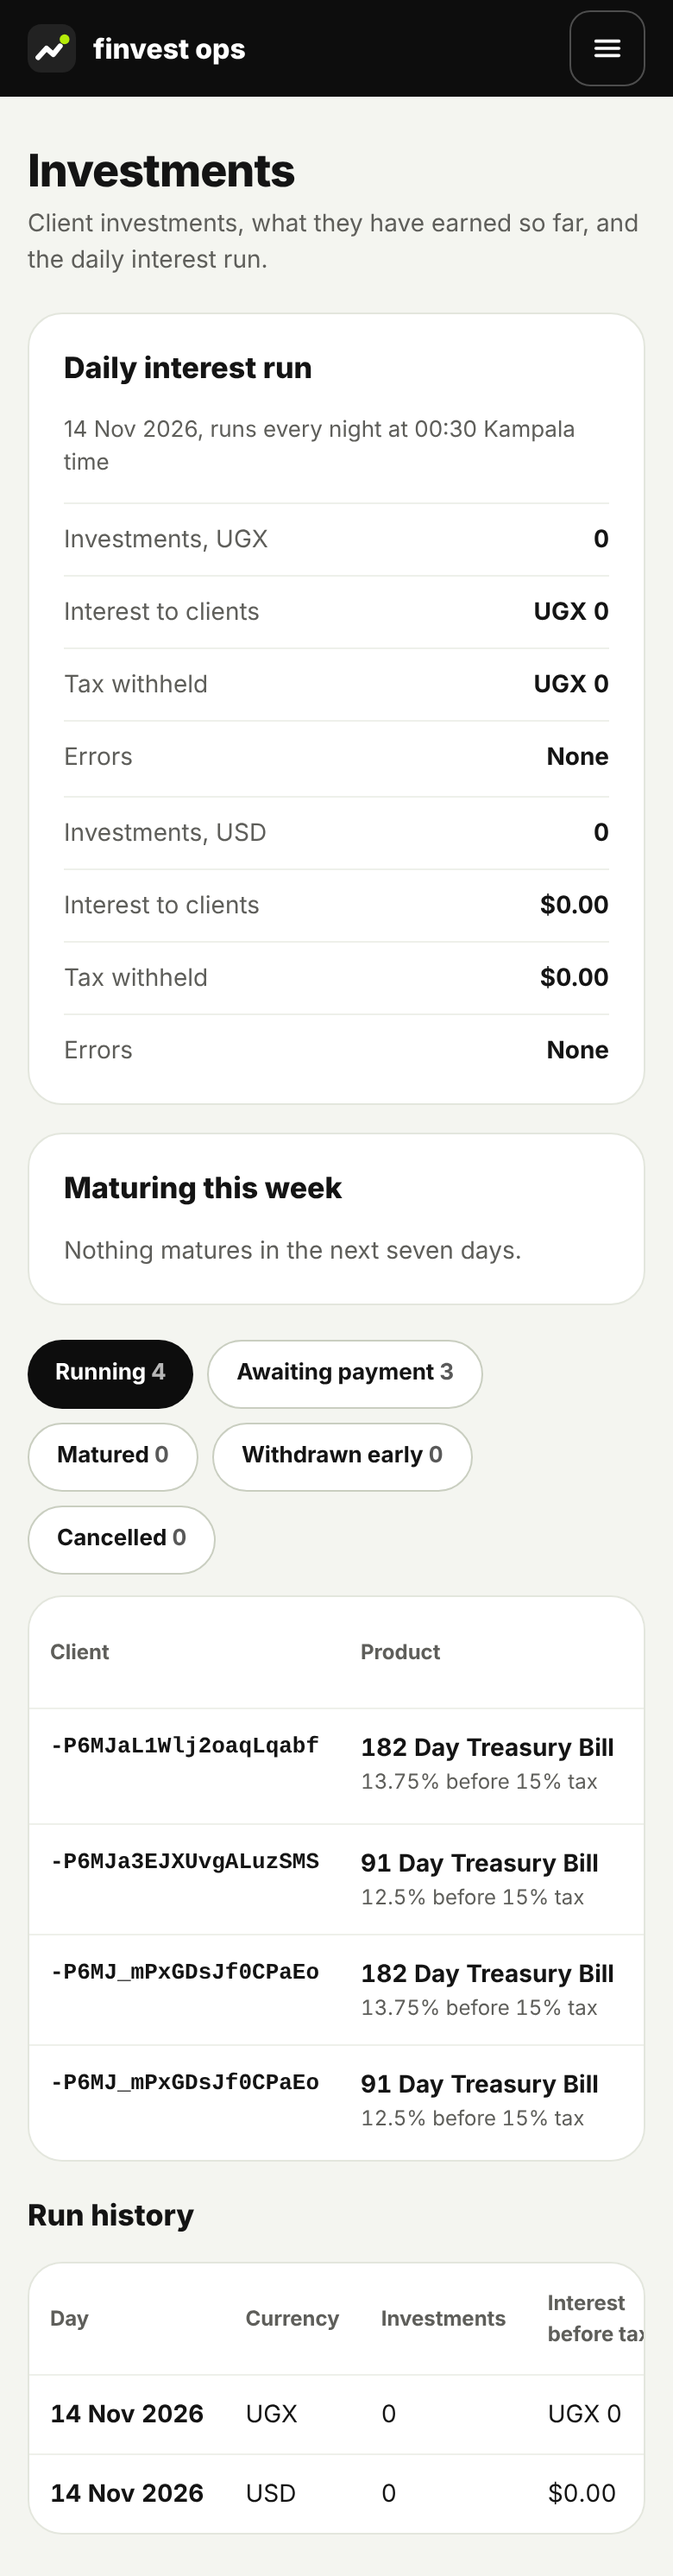
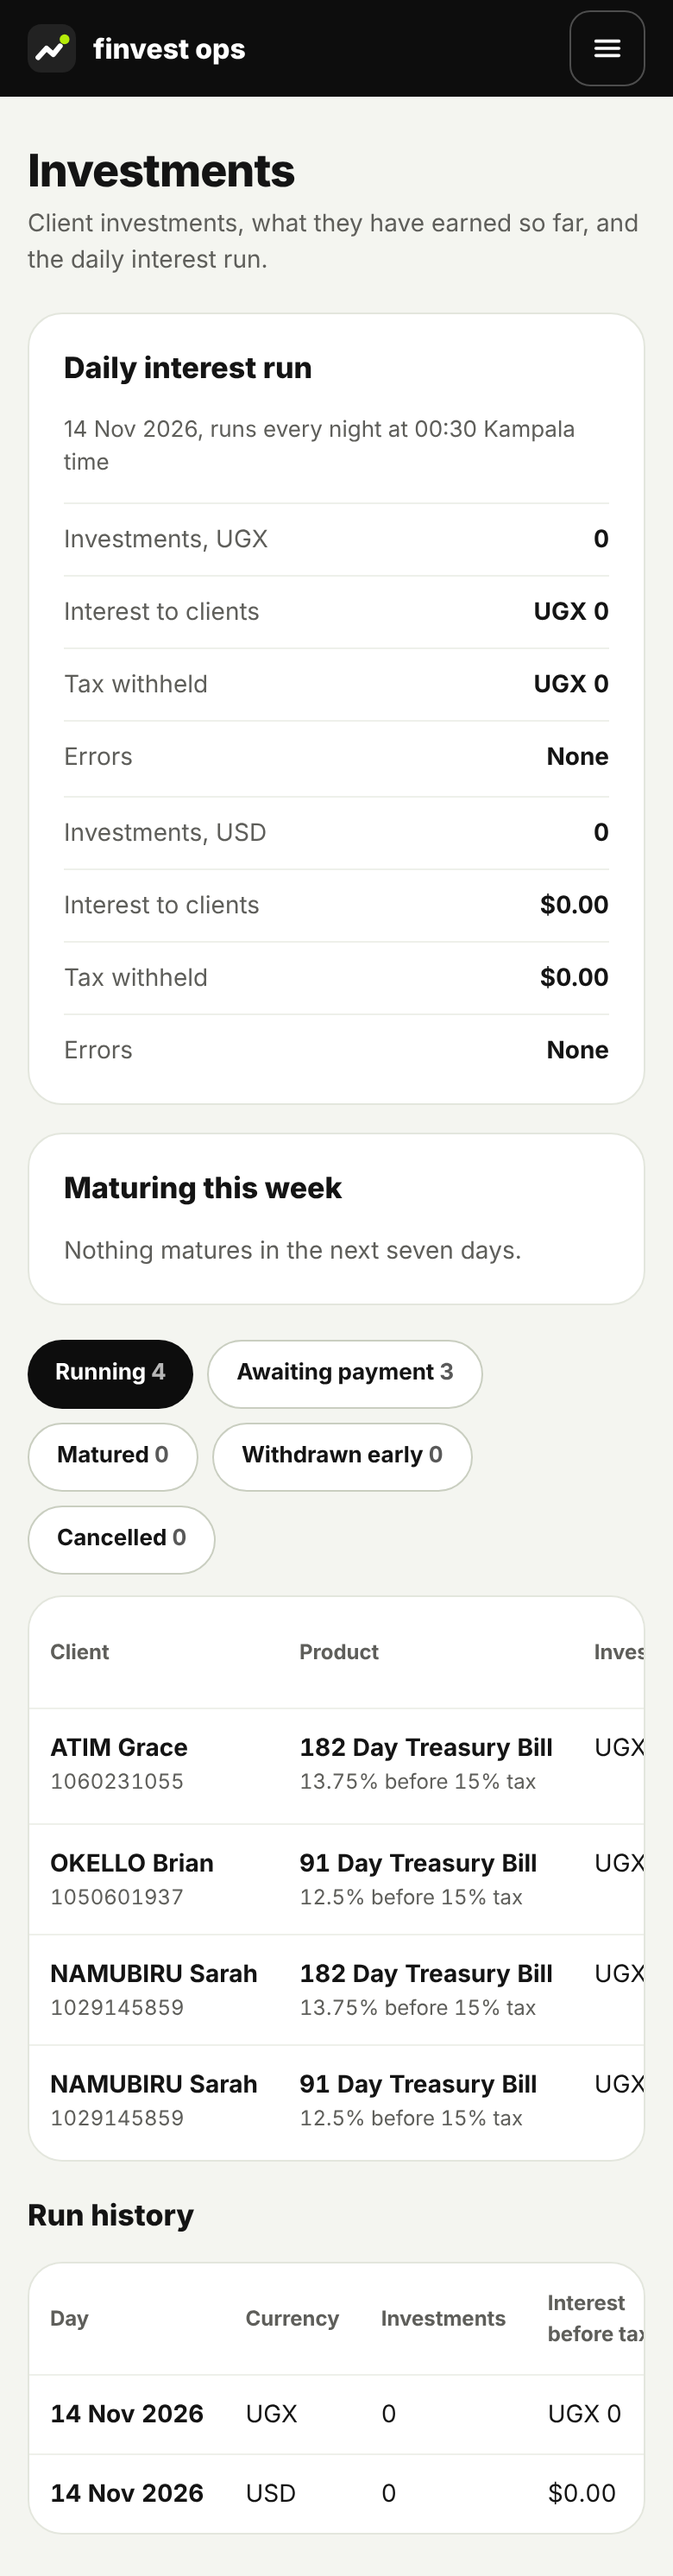
Name each client in the console's investments table
The table showed client IDs. It now reads every client's card in one
batched request through the shared directory and shows the name and
account number, keeping the ID when a card cannot be read.

diff --git a/apps/console/src/screens/investments/index.tsx b/apps/console/src/screens/investments/index.tsx
@@ -1,18 +1,22 @@
-import { useCallback, useEffect, useState } from "react";
+import { useCallback, useEffect, useRef, useState } from "react";
+import { apiBaseUrl, createHttp } from "@/api/http.ts";
 import { isStubAuth } from "@/auth/index.ts";
+import { emptyDirectory, type ClientCard, type Directory } from "@/directory/api.ts";
+import { createHttpDirectory } from "@/directory/http.ts";
 import { Button } from "@/components/ui/button.tsx";
 import { cn } from "@/lib.ts";
 import { PageHeader } from "@/pages/PageHeader.tsx";
 import { formatBps, formatDay, formatExact, formatStamp } from "../products/format.ts";
 import {
   investmentsErrorMessage,
+  notConnectedInvestmentsApi,
   type AtMaturity,
   type InterestRun,
   type Investment,
   type InvestmentStatus,
   type InvestmentsApi,
 } from "./api.ts";
-import { connectedInvestmentsApi } from "./http.ts";
+import { createHttpInvestmentsApi } from "./http.ts";
 import { createStubInvestmentsApi } from "./stub.ts";
 
 const SUMMARY = "Client investments, what they have earned so far, and the daily interest run.";
@@ -39,6 +43,8 @@ type Load =
 
 interface InvestmentsScreenProps {
   api: InvestmentsApi;
+  /** Names each client. Without it, a client shows as their ID. */
+  directory?: Directory;
   /** The Kampala business day, as a calendar date. */
   today?: () => string;
 }
@@ -51,18 +57,36 @@ function addDays(isoDate: string, days: number): string {
   return date.toISOString().slice(0, 10);
 }
 
-export function InvestmentsScreen({ api, today = kampalaToday }: InvestmentsScreenProps) {
+export function InvestmentsScreen({ api, directory = emptyDirectory, today = kampalaToday }: InvestmentsScreenProps) {
   const [tab, setTab] = useState<InvestmentStatus>("active");
   const [load, setLoad] = useState<Load>({ state: "loading" });
+  const [cards, setCards] = useState<Record<string, ClientCard | null>>({});
+  const asked = useRef(new Set<string>());
+
+  // Every client asked for in the same moment goes in one request (directory/http.ts batches them).
+  const lookUp = useCallback(
+    (clientIds: readonly string[]) => {
+      for (const clientId of new Set(clientIds)) {
+        if (asked.current.has(clientId)) continue;
+        asked.current.add(clientId);
+        void directory.client(clientId).then(
+          (card) => setCards((known) => ({ ...known, [clientId]: card })),
+          () => setCards((known) => ({ ...known, [clientId]: null })),
+        );
+      }
+    },
+    [directory],
+  );
 
   const fetchAll = useCallback(async (): Promise<Load> => {
     try {
       const [investments, runs] = await Promise.all([api.listInvestments(), api.interestRuns()]);
+      lookUp(investments.map((investment) => investment.clientId));
       return { state: "ready", investments, runs };
     } catch (error) {
       return { state: "failed", message: investmentsErrorMessage(error) };
     }
-  }, [api]);
+  }, [api, lookUp]);
 
   useEffect(() => {
     let current = true;
@@ -139,7 +163,7 @@ export function InvestmentsScreen({ api, today = kampalaToday }: InvestmentsScre
             <p className="m-0 text-md leading-normal text-muted">Investments appear here once a client reviews and confirms one in the app.</p>
           </section>
         ) : (
-          <InvestmentTable investments={shown} status={tab} />
+          <InvestmentTable investments={shown} status={tab} cards={cards} />
         )}
       </div>
       <RunHistory runs={load.runs} />
@@ -147,7 +171,14 @@ export function InvestmentsScreen({ api, today = kampalaToday }: InvestmentsScre
   );
 }
 
-function InvestmentTable({ investments, status }: { investments: readonly Investment[]; status: InvestmentStatus }) {
+interface InvestmentTableProps {
+  investments: readonly Investment[];
+  status: InvestmentStatus;
+  /** Each client's card once it is read. Null when it cannot be. */
+  cards: Readonly<Record<string, ClientCard | null>>;
+}
+
+function InvestmentTable({ investments, status, cards }: InvestmentTableProps) {
   const last = status === "awaiting_payment" ? "Pay by" : status === "matured" ? "What happened" : "At maturity";
   return (
     <div role="tabpanel" className="overflow-x-auto rounded-xl border border-border bg-surface">
@@ -165,8 +196,8 @@ function InvestmentTable({ investments, status }: { investments: readonly Invest
         <tbody>
           {investments.map((investment) => (
             <tr key={investment.id} className="border-t border-divider align-top tabular-nums">
-              <th scope="row" className="px-3 py-3 text-left font-mono text-sm font-bold whitespace-nowrap">
-                {investment.clientId}
+              <th scope="row" className="px-3 py-3 text-left font-normal">
+                <ClientName clientId={investment.clientId} card={cards[investment.clientId]} />
               </th>
               <td className="px-3 py-3">
                 <div className="font-bold whitespace-nowrap">{investment.productName}</div>
@@ -309,6 +340,17 @@ function RunHistory({ runs }: { runs: readonly InterestRun[] }) {
   );
 }
 
+/** The client's name and account number, or their ID until the card is read or when it cannot be. */
+function ClientName({ clientId, card }: { clientId: string; card: ClientCard | null | undefined }) {
+  if (!card) return <span className="font-mono text-sm font-bold whitespace-nowrap">{clientId}</span>;
+  return (
+    <>
+      <div className="font-bold whitespace-nowrap">{card.name}</div>
+      <div className="text-xs text-muted">{card.accountNumber ?? "No account number yet"}</div>
+    </>
+  );
+}
+
 function Row({ name, value, warn = false }: { name: string; value: string; warn?: boolean }) {
   return (
     <div className="flex justify-between gap-3 border-t border-divider pt-2.5 text-md">
@@ -320,10 +362,15 @@ function Row({ name, value, warn = false }: { name: string; value: string; warn?
 
 export default function InvestmentsPage() {
   // Sample investments under `pnpm dev` or a preview build, otherwise the real API. `?sample=empty` shows a new system.
-  const [api] = useState<InvestmentsApi>(() =>
-    isStubAuth()
-      ? createStubInvestmentsApi(new URLSearchParams(window.location.search).get("sample") === "empty" ? "empty" : "default")
-      : connectedInvestmentsApi(),
-  );
-  return <InvestmentsScreen api={api} />;
+  const [{ api, directory }] = useState<{ api: InvestmentsApi; directory: Directory }>(() => {
+    if (isStubAuth()) {
+      const sample = new URLSearchParams(window.location.search).get("sample") === "empty" ? "empty" : "default";
+      return { api: createStubInvestmentsApi(sample), directory: emptyDirectory };
+    }
+    const base = apiBaseUrl();
+    if (!base) return { api: notConnectedInvestmentsApi, directory: emptyDirectory };
+    const http = createHttp(base);
+    return { api: createHttpInvestmentsApi(http), directory: createHttpDirectory(http) };
+  });
+  return <InvestmentsScreen api={api} directory={directory} />;
 }

diff --git a/apps/console/src/screens/investments/index.test.tsx b/apps/console/src/screens/investments/index.test.tsx
@@ -4,6 +4,7 @@ import { describe, expect, it } from "vitest";
 import { InvestmentsError, notConnectedInvestmentsApi, type InvestmentsApi } from "./api.ts";
 import { InvestmentsScreen } from "./index.tsx";
 import { createStubInvestmentsApi } from "./stub.ts";
+import { emptyDirectory, type Directory } from "@/directory/api.ts";
 
 const TODAY = "2026-11-13";
 
@@ -88,5 +89,26 @@ describe("investments screen", () => {
   it("says when it is not connected", async () => {
     renderInvestments(notConnectedInvestmentsApi);
     expect(await screen.findByRole("alert")).toHaveTextContent("not connected to the Finvest service yet");
+  });
+
+  it("names each client from the directory, asking once per client, and keeps the ID when a card cannot be read", async () => {
+    const asked: string[] = [];
+    const directory: Directory = {
+      ...emptyDirectory,
+      client: (clientId) => {
+        asked.push(clientId);
+        return Promise.resolve(
+          clientId === "-ClientSample0000001"
+            ? { clientId, name: "NAKATO Amara", accountNumber: "1001004827", verified: true, clientSince: "2026-10-10", status: "active" }
+            : null,
+        );
+      },
+    };
+    render(<InvestmentsScreen api={createStubInvestmentsApi()} directory={directory} today={() => TODAY} />);
+    await screen.findByText("NAKATO Amara");
+    const [first, second] = rows();
+    expect(first?.[0]).toBe("NAKATO Amara1001004827");
+    expect(second?.[0]).toBe("-ClientSample0000002");
+    expect(asked.filter((id) => id === "-ClientSample0000001")).toHaveLength(1);
   });
 });

diff --git a/apps/console/src/screens/investments/http.ts b/apps/console/src/screens/investments/http.ts
@@ -8,11 +8,10 @@
  */
 
 import type { InterestRunOut, StaffInvestmentOut } from "@finvest/api-client/staff";
-import { ApiError, apiBaseUrl, createHttp, type Http } from "@/api/http.ts";
+import { ApiError, type Http } from "@/api/http.ts";
 import {
   INVESTMENT_STATUSES,
   InvestmentsError,
-  notConnectedInvestmentsApi,
   type InterestRun,
   type Investment,
   type InvestmentsApi,
@@ -98,8 +97,3 @@ export function createHttpInvestmentsApi(http: Http): InvestmentsApi {
   };
 }
 
-/** The real API when the build names one, otherwise investments that say they are not connected. */
-export function connectedInvestmentsApi(): InvestmentsApi {
-  const base = apiBaseUrl();
-  return base ? createHttpInvestmentsApi(createHttp(base)) : notConnectedInvestmentsApi;
-}
